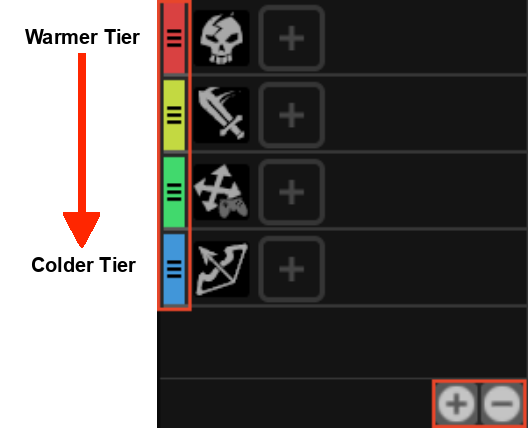
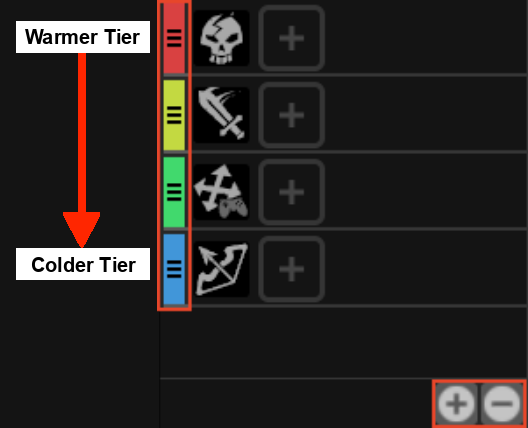
tags css

Changed region(s): [[0.0, 0.0, 0.303, 1.0]]

diff --git a/custom-css/behavior_tags.css b/custom-css/behavior_tags.css
@@ -1,0 +1,18 @@
+
+/* tags */
+.behavior_tag_container {
+    width: 100%;
+}
+
+.behavior_tag {
+    display: inline-block;
+    padding: 2px;
+    padding-left: 10px;
+    padding-right: 10px;
+    margin-right: 5px;
+    margin-top: 5px;
+    font-size: small;
+    border-radius: 20px;
+    opacity: 0.8;
+    color: white;
+}

diff --git a/scripts/behavior_tags.py b/scripts/behavior_tags.py
@@ -1,0 +1,55 @@
+
+import re # regex operations
+import sys # to return 0
+import os # loop over files
+from config import config
+import time # measure duration
+
+# goal : Update the behavior tags appearance
+
+# replace in a file
+def set_behavior_tags(filename):
+
+    # Safely read the input filename using 'with'
+    s= ""
+    with open(filename, 'r', encoding="utf8") as f:
+        s = f.read()
+
+    # safe exit
+    if (s == ""):
+        return
+
+    # tags container
+    str_to_replace = "(<("
+    str_replacement = "<p class=\"behavior_tag_container\"><p class=\"behavior_tag\">"
+    s = s.replace(str_to_replace, str_replacement)
+
+    str_to_replace = ")>)"
+    str_replacement = "</div></p>"
+    s = s.replace(str_to_replace, str_replacement)
+
+    # tag
+    str_to_replace = ")><("
+    str_replacement = "</p><p class=\"behavior_tag\">"
+    s = s.replace(str_to_replace, str_replacement)
+
+    # Safely write the changed content
+    with open(filename, 'w', encoding="utf8") as f:
+        f.write(s)
+
+
+# entry point
+start = time.time()
+src_root = "./../book/"
+nb_files=0
+for root, dirs, files in os.walk(src_root, topdown=False):
+   for filename in files:
+        if filename.endswith(".html"):
+            set_behavior_tags(os.path.join(root, filename))
+            nb_files+=1
+
+end = time.time()
+print(f"[{str(round(end - start, 1))} sec] BEHAVIOR TAGS UPDATE : {nb_files} updated")
+
+# safe return
+sys.exit(0)

diff --git a/scripts/config.py b/scripts/config.py
@@ -11,6 +11,19 @@ class config:
 
     # =============================================================================
     # =============================================================================
+    # css files to include
+    css_common_list = ["behavior_tags.css", 
+                    "join-community.css", 
+                    "footer.css", 
+                    "main.css", 
+                    "mdbook-admonish.css", 
+                    "rating.css", 
+                    "summary.css"]
+
+    css_black_list = ["hero.css"]
+
+    # =============================================================================
+    # =============================================================================
     # installation page
     title_install_unity = "Install Unity"
     title_dl_rpgpowerforge = "Install RPG Power Forge"

diff --git a/scripts/custom-css.py b/scripts/custom-css.py
@@ -3,6 +3,7 @@ import sys # to return 0
 import os # loop over files
 import shutil # move files
 import time # measure duration
+from config import config
 
 # goal : add the custom-css link in every html output pages
 
@@ -22,8 +23,8 @@ def set_css(filename):
     css_link = ""
     basename = os.path.basename(filename)
 
-    common_list = ["join-community.css", "footer.css", "main.css", "mdbook-admonish.css", "rating.css", "summary.css"]
-    black_list = ["hero.css"]
+    common_list = config.css_common_list
+    black_list = config.css_black_list
 
     for root, dirs, files in os.walk("./../custom-css"):
         for file in files:

diff --git a/src/en/stable/user_manual/game_mecanics/behaviors/behavior_list/attack/behavior_attack.md b/src/en/stable/user_manual/game_mecanics/behaviors/behavior_list/attack/behavior_attack.md
@@ -1,5 +1,5 @@
 # Attack Behavior
-((behavior, attack, melee, weapon, sword, hammer, hit, slash))
+(<(behavior)><(attack)><(melee)><(weapon)><(sword)><(hammer)><(hit)><(slash)>)
 This section covers the RPG Power Forge feature Behavior : Attack  !
 
 ```admonish warning title="Working, working ..."
